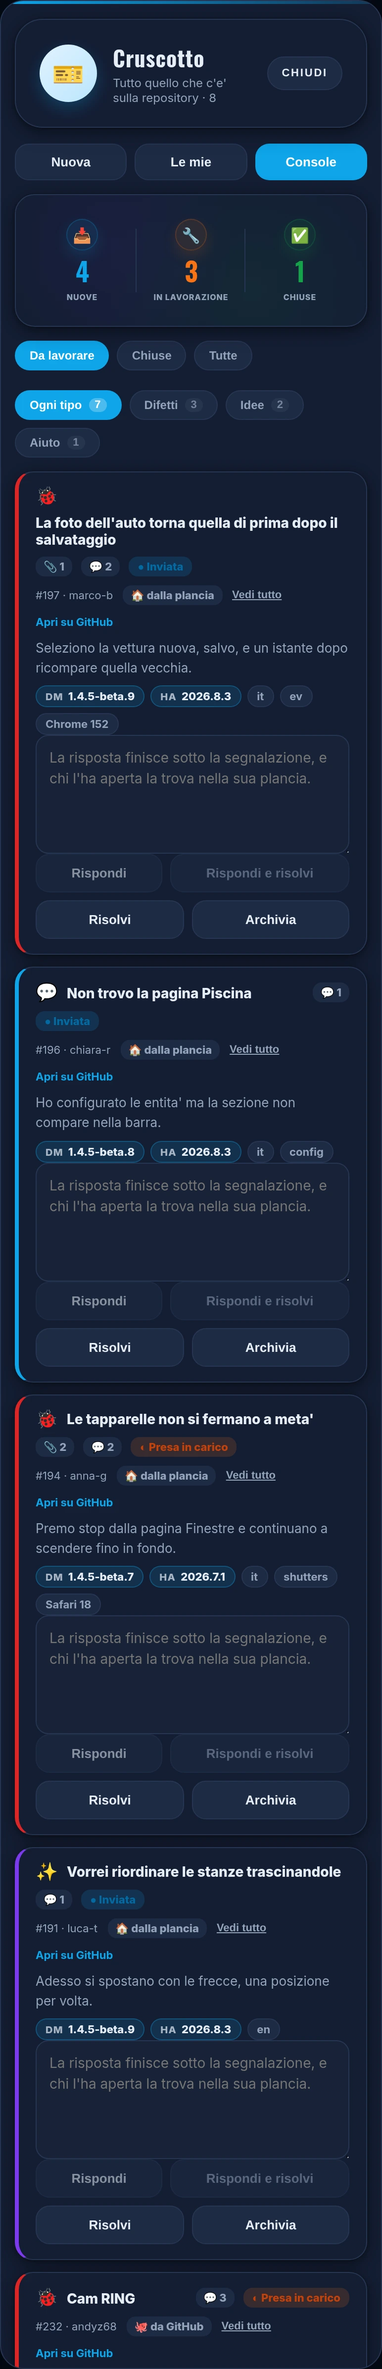
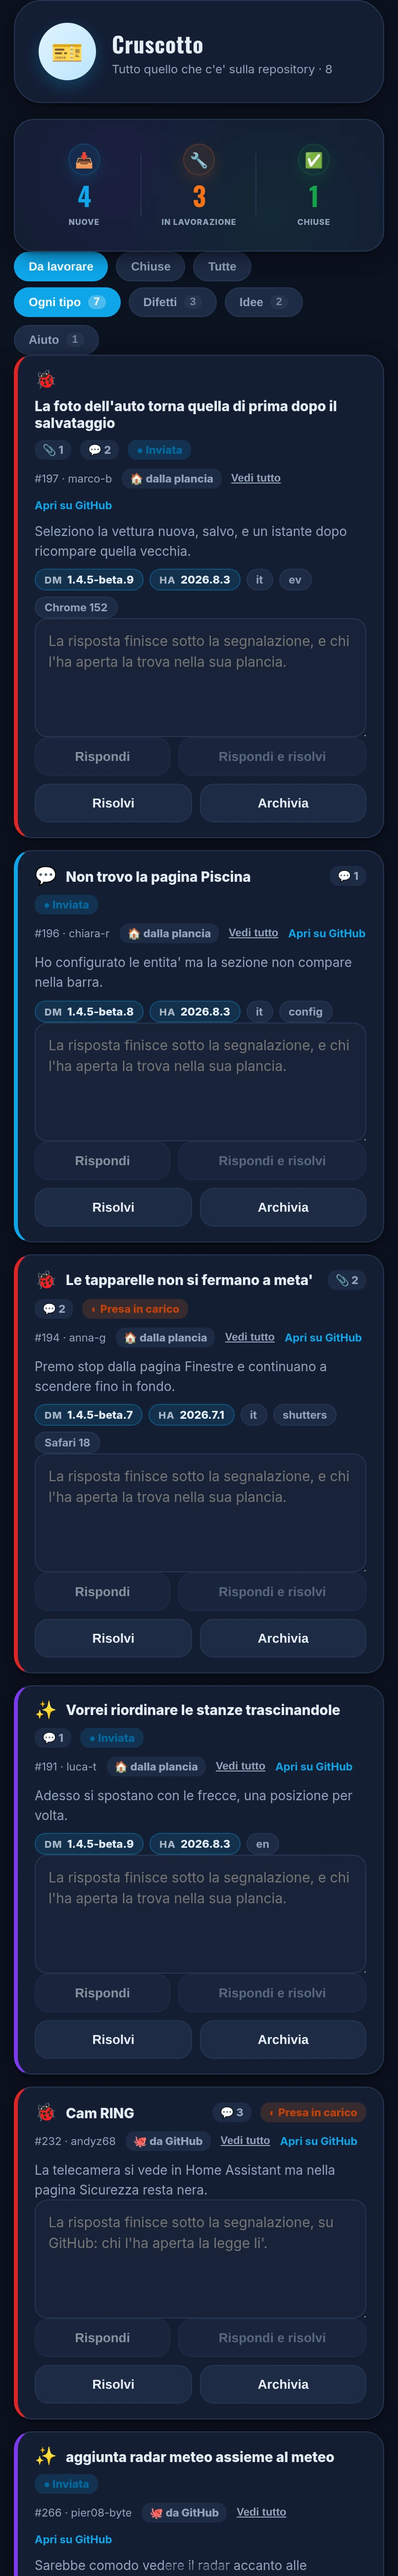
Il cruscotto e' una pagina, non una finestra
Stava dentro il popup delle segnalazioni, come terza linguetta. Ma la coda del
manutentore non e' una cosa che si sbircia: si legge un titolo, si apre il filo,
si guarda una foto allegata, si scrive una risposta — e tutto questo dentro un
riquadro largo un palmo vuol dire scorrere per fare qualunque cosa. La finestra
andava bene per scrivere una segnalazione, che e' un gesto corto; per lavorarne
cinquanta no.

Adesso e' una pagina sua, con la sua voce nella barra in fondo, e ci sta tutto a
schermo intero: il riquadro della risposta e' largo quanto la pagina, e le righe
respirano.

La voce c'e' **solo per chi tiene la repository**, e non e' un'impostazione:
per tutti gli altri quella pagina non avrebbe niente dentro, e offrire un
interruttore per spegnerla vorrebbe dire offrire di spegnere una cosa che non
hanno. Chi ce l'ha invece la puo' togliere dalla barra come qualunque altra
pagina, dall'interruttore nella scheda Segnalazioni — e senza quella riga non
potrebbe, perche' e' una voce che nasce a runtime e le fasce del guscio non la
conoscono. La chiave li' e' scritta per esteso e non come costante: la prova che
pretende un interruttore per ogni voce della barra legge i sorgenti, e una
costante non la saprebbe risolvere. Scriverla vuol dire restare dentro quella
rete invece di scivolarci fuori senza accorgersene.

E se il riconoscimento cade — ci si scollega, il gettone smette di valere — la
voce e la pagina se ne vanno da sole: restare con una voce nella barra che apre
[…]

Changed region(s): [[0.0, 0.0, 1.0, 1.0], [0.8394, 0.4049, 0.8705, 0.436]]

diff --git a/custom_components/dashboardmodern/frontend/src/sections/segnalazioni-section.js b/custom_components/dashboardmodern/frontend/src/sections/segnalazioni-section.js
@@ -653,7 +653,20 @@ function tesseraMarkup() {
         ),
       )}</div>
     </div>
-    <div class="cfg-card-arrow">›</div>`;
+    <div class="cfg-card-arrow">›</div>
+    ${
+      /* L'interruttore della voce «Cruscotto» nella barra, e sta qui perche' qui
+       * sta la sua scheda. Compare solo per chi la voce ce l'ha: agli altri
+       * offrirebbe di spegnere una cosa che non hanno. Chi ce l'ha deve poterla
+       * togliere dalla barra come qualunque altra pagina — e senza questa riga
+       * non potrebbe, perche' e' una voce che nasce a runtime e le fasce del
+       * guscio non la conoscono. */
+      /* La chiave scritta per esteso e non `CRUSCOTTO_TAB`: la prova che
+       * pretende un interruttore per ogni voce della barra legge i sorgenti, e
+       * una costante non la sa risolvere qui. Scriverla vuol dire restare
+       * dentro quella rete invece di scivolarci fuori senza accorgersene. */
+      state.console ? root.cdSecToggleHtml?.("cruscotto") || "" : ""
+    }`;
 }
 
 function installaTessera() {
@@ -709,8 +722,7 @@ export function apri(dove = "") {
   /* La linguetta si sceglie da fuori solo se esiste per chi guarda: la console
    * la vede il manutentore, e chiederla senza averla lascerebbe la finestra su
    * una scheda che non c'e'. */
-  if (dove === "console" && state.console) state.tab = "console";
-  else if (dove === "mie" || dove === "nuova") state.tab = dove;
+  if (dove === "mie" || dove === "nuova") state.tab = dove;
   modale.classList.add("show");
   disegna();
   ricarica();
@@ -878,7 +890,6 @@ function schede() {
     ["nuova", t("Nuova", "New")],
     ["mie", t("Le mie", "Mine")],
   ];
-  if (state.console) voci.push(["console", t("Console", "Console")]);
   return `<div class="dm-tkt-tabs">${voci
     .map(
       ([id, nome]) =>
@@ -1537,16 +1548,129 @@ function consoleMarkup() {
 }
 
 /** La riga sotto il titolo: dove sei, e con che account. */
+/* ─── Il cruscotto: una pagina, non una finestra ──────────────────────────
+ *
+ * Stava dentro il popup delle segnalazioni, come terza linguetta. Ma la coda
+ * del manutentore non e' una cosa che si sbircia: si legge un titolo, si apre
+ * il filo, si guarda una foto, si scrive una risposta — e tutto questo dentro
+ * un riquadro largo un palmo vuol dire scorrere per fare qualunque cosa.
+ *
+ * Adesso e' una pagina sua, con la sua voce nella barra, e ci sta tutto a
+ * schermo intero. La voce c'e' **solo per chi tiene la repository**: non e'
+ * un'impostazione da spegnere, e' che per gli altri quella pagina non ha niente
+ * dentro. Chi ce l'ha la puo' nascondere come tutte le altre.
+ */
+
+const CRUSCOTTO_TAB = "cruscotto";
+const CRUSCOTTO_PAGE_ID = "page-cruscotto";
+
+function ultimaPagina() {
+  const pagine = doc?.querySelectorAll?.(".page");
+  return pagine?.length ? pagine[pagine.length - 1] : null;
+}
+
+function creaPaginaCruscotto() {
+  if (!doc) return null;
+  const gia = doc.getElementById(CRUSCOTTO_PAGE_ID);
+  if (gia) return gia;
+  const sorella = ultimaPagina();
+  if (!sorella?.parentElement) return null;
+  const pagina = doc.createElement("section");
+  pagina.className = "page";
+  pagina.id = CRUSCOTTO_PAGE_ID;
+  pagina.innerHTML = `<div class="dm-tkt-plancia" data-dm-cruscotto></div>`;
+  sorella.after(pagina);
+  return pagina;
+}
+
+function creaVoceCruscotto() {
+  if (!doc) return null;
+  const gia = doc.querySelector(`.tab[data-tab="${CRUSCOTTO_TAB}"]`);
+  if (gia) return gia;
+  const barra = doc.querySelector("nav.tabs");
+  if (!barra) return null;
+  const voce = doc.createElement("button");
+  voce.className = "tab";
+  voce.dataset.tab = CRUSCOTTO_TAB;
+  voce.id = `tab-${CRUSCOTTO_TAB}`;
+  voce.innerHTML = `<span class="icon">🎫</span><span class="text">${esc(
+    t("Cruscotto", "Console"),
+  )}</span>`;
+  /* Il gestore che il runtime lega alle voci lo lega una volta sola, al
+   * caricamento: questa arriva dopo e il suo tocco se lo gestisce da se'. Fa la
+   * stessa identica cosa, perche' due modi di cambiare pagina sarebbero due
+   * pagine attive quando non tornano. */
+  voce.addEventListener("click", () => {
+    for (const nodo of doc.querySelectorAll(".tab")) nodo.classList.remove("active");
+    for (const nodo of doc.querySelectorAll(".page")) nodo.classList.remove("active");
+    voce.classList.add("active");
+    creaPaginaCruscotto()?.classList.add("active");
+    if (root.navigator?.vibrate) root.navigator.vibrate(5);
+    /* Aprendola si va a vedere se e' cambiato qualcosa: e' il gesto con cui si
+     * chiede «cosa c'e' di nuovo», e rispondere con quello di dieci minuti fa
+     * sarebbe rispondere a un'altra domanda. */
+    caricaCoda({ zitta: true });
+    disegnaCruscotto();
+  });
+  barra.append(voce);
+  return voce;
+}
+
+/* La voce si nasconde come tutte le altre: `cdApplyNavVis` sa quali voci
+ * esistono da una mappa sua, e una che non c'e' resta sempre accesa qualunque
+ * cosa dica la configurazione. */
+function insegnaLaVisibilitaDelCruscotto() {
+  const precedente = root.cdNavVisMap;
+  if (typeof precedente !== "function" || precedente.__dmCruscotto) return;
+  const avvolta = function cdNavVisMap(...args) {
+    const mappa = precedente.apply(this, args) || {};
+    return { ...mappa, [CRUSCOTTO_TAB]: CRUSCOTTO_TAB };
+  };
+  avvolta.__dmCruscotto = true;
+  avvolta.__dmPrevious = precedente;
+  root.cdNavVisMap = avvolta;
+}
+
+/* La pagina esiste solo per chi tiene la repository, e sparisce se quel
+ * riconoscimento cade — chi si scollega non deve restare con una voce nella
+ * barra che apre una pagina vuota. */
+export function sistemaIlCruscotto() {
+  if (!doc) return;
+  if (!state.console) {
+    doc.querySelector(`.tab[data-tab="${CRUSCOTTO_TAB}"]`)?.remove();
+    doc.getElementById(CRUSCOTTO_PAGE_ID)?.remove();
+    return;
+  }
+  creaPaginaCruscotto();
+  creaVoceCruscotto();
+  insegnaLaVisibilitaDelCruscotto();
+  disegnaCruscotto();
+}
+
+function disegnaCruscotto() {
+  const dentro = doc?.querySelector?.("[data-dm-cruscotto]");
+  if (!dentro) return;
+  const quante = Array.isArray(state.queue) ? state.queue.length : 0;
+  dentro.innerHTML = `
+    <div class="cfg-hero dm-tkt-hero">
+      <div class="cfg-hero-ico" aria-hidden="true">🎫</div>
+      <div class="cfg-hero-txt">
+        <div class="cfg-hero-title">${esc(t("Cruscotto", "Console"))}</div>
+        <div class="cfg-hero-sub">${esc(
+          `${t("Tutto quello che c'e' sulla repository", "Everything on the repository")} · ${quante}`,
+        )}</div>
+      </div>
+    </div>
+    ${avvisoMarkup()}
+    ${consoleMarkup()}`;
+  agganciaEventi(dentro);
+}
+
 function sottotitolo() {
   /* Il pezzo che cambia si attacca FUORI da `t()`. Dentro finirebbe nella
    * chiave — una chiave diversa per ogni conteggio e per ogni login — e a
    * runtime nessun catalogo l'avrebbe mai contenuta: ogni lingua ricadrebbe
    * sull'inglese proprio in questa riga. */
-  if (state.tab === "console") {
-    const quante = Array.isArray(state.queue) ? state.queue.length : 0;
-    const testa = t("Tutto quello che c'e' sulla repository", "Everything on the repository");
-    return `${testa} · ${quante}`;
-  }
   if (state.account.connected) {
     return `${t("Le tue richieste", "Your requests")} · ${state.account.login}`;
   }
@@ -1559,18 +1683,18 @@ function sottotitolo() {
 function disegna() {
   const modale = doc?.getElementById?.("dm-tkt-modal");
   if (!modale) return;
-  modale.querySelector('[data-dm-tkt="titolo"]').textContent =
-    state.tab === "console" ? t("Cruscotto", "Console") : t("Segnalazioni", "Reports");
+  modale.querySelector('[data-dm-tkt="titolo"]').textContent = t("Segnalazioni", "Reports");
   modale.querySelector('[data-dm-tkt="sottotitolo"]').textContent = sottotitolo();
   modale.querySelector('[data-dm-tkt="chiudi"]').textContent = t("Chiudi", "Close");
   const corpo = modale.querySelector('[data-dm-tkt="corpo"]');
-  let pannello = "";
-  if (state.tab === "mie") pannello = elencoMarkup();
-  else if (state.tab === "console") pannello = consoleMarkup();
-  else pannello = moduloMarkup();
+  const pannello = state.tab === "mie" ? elencoMarkup() : moduloMarkup();
   corpo.innerHTML = schede() + avvisoMarkup() + codiceMarkup() + pannello;
   agganciaEventi(corpo);
   if (state.tab === "nuova") mostraDiagnostica(corpo);
+  /* La pagina del cruscotto vive fuori da questa finestra, ma legge lo stesso
+   * stato: quando qui cambia qualcosa — una risposta pubblicata, la coda
+   * riletta — anche lei va rifatta, o le due mostrerebbero cose diverse. */
+  disegnaCruscotto();
 }
 
 async function mostraDiagnostica(corpo) {
@@ -1615,7 +1739,6 @@ function agganciaEventi(corpo) {
       state.tab = bottone.dataset.dmTab;
       state.avviso = "";
       disegna();
-      if (state.tab === "console" && state.queue === null) caricaCoda();
     });
   });
   corpo.querySelectorAll("[data-dm-tipo]").forEach((bottone) => {
@@ -1885,11 +2008,14 @@ export function installSegnalazioniSection() {
    * viene riempita dal runtime: si riprova quando la si apre. */
   /* Il tasto sta dentro la finestra di una tessera della Home, che e' roba di
    * un altro modulo. Ad ascoltarlo pero' e' questa sezione, perche' e' lei che
-   * sa aprire la propria finestra: il widget disegna la porta, non la apre. */
+   * possiede il cruscotto: il widget disegna la porta, non la apre. */
   doc.addEventListener("click", (event) => {
-    if (event.target?.closest?.("[data-dm-apri-cruscotto]")) {
-      apri("console");
-    }
+    if (!event.target?.closest?.("[data-dm-apri-cruscotto]")) return;
+    /* Il cruscotto adesso e' una pagina: si va li', invece di aprire una
+     * finestra sopra la Home. Il tocco sulla voce fa gia' tutto — cambia
+     * pagina, rilegge la coda, ridisegna — e rifarlo qui vorrebbe dire due
+     * strade da tenere uguali. */
+    doc.querySelector(`.tab[data-tab="${CRUSCOTTO_TAB}"]`)?.click();
   });
   doc.addEventListener(
     "click",
@@ -1901,7 +2027,12 @@ export function installSegnalazioniSection() {
     true,
   );
   prova();
-  root.DashboardModernSegnalazioni = Object.freeze({ apri, chiudi });
+  root.DashboardModernSegnalazioni = Object.freeze({
+    apri,
+    chiudi,
+    // Serve al generatore delle anteprime: semina lo stato, poi chiede la pagina.
+    sistema: sistemaIlCruscotto,
+  });
   return state;
 }
 

diff --git a/custom_components/dashboardmodern/frontend/legacy/build-info.js b/custom_components/dashboardmodern/frontend/legacy/build-info.js
@@ -13,4 +13,4 @@ import "../src/sections/beta25-real-device-fixes-section.js";
 import "../src/sections/beta25-compatibility-section.js";
 import "../src/sections/beta26-real-device-stability-section.js";
 import "../src/sections/segnalazioni-section.js";
-export const BUILD_INFO = Object.freeze({"generated":true,"integrationVersion":"1.4.5-beta.10","dashboardVersion":"1.4.5-beta.10","moduleVersion":14,"schemaVersion":4,"date":"2026-09-02T12:36:38+00:00","commit":"ca56d6b41f2c96954e43fd0d08556f5f002b93ef","assetHash":"f64329658b034a15"});
+export const BUILD_INFO = Object.freeze({"generated":true,"integrationVersion":"1.4.5-beta.10","dashboardVersion":"1.4.5-beta.10","moduleVersion":14,"schemaVersion":4,"date":"2026-09-02T12:41:28+00:00","commit":"3f69809cfa3c2f50785e610ffebd45b72af87d32","assetHash":"04ef48df43abbc41"});

diff --git a/custom_components/dashboardmodern/frontend/src/i18n/source-index.js b/custom_components/dashboardmodern/frontend/src/i18n/source-index.js
@@ -754,6 +754,7 @@ export const SOURCE_INDEX = Object.freeze({
   "Createte token": "Create token",
   "crei un avviso su qualsiasi entità, con nome, condizione e icona a scelta.": "you can create an alert on any entity, with your own name, condition and icon.",
   "Cronologia Cambiamenti": "Change history",
+  "Cruscotto": "Console",
   "Ctrl Solare": "Solar control",
   "Cucina": "Kitchen",
   "Cumulativo. Giorno e Mese si calcolano da qui come differenza Recorder, quindi non serve un sensore per periodo.": "Cumulative. Day and Month are calculated from it as a Recorder difference, so no per-period sensor is needed.",

diff --git a/CHANGELOG.md b/CHANGELOG.md
@@ -106,6 +106,22 @@ del loro disegno, e un'apertura che spariva senza dire perche'.
 
 ### Il cruscotto
 
+- **Non e' piu' una finestra: e' una pagina, con la sua voce nella barra.** La
+  coda del manutentore non e' una cosa che si sbircia — si legge un titolo, si
+  apre il filo, si guarda una foto, si scrive una risposta — e tutto questo
+  dentro un riquadro largo un palmo vuol dire scorrere per fare qualunque cosa.
+  Adesso ci sta tutto a schermo intero.
+
+  La voce c'e' **solo per chi tiene la repository**, e non e' un'impostazione da
+  spegnere: per gli altri quella pagina non avrebbe niente dentro. Chi ce l'ha
+  la puo' nascondere dalla barra come qualunque altra, dall'interruttore nella
+  scheda Segnalazioni — e se il riconoscimento cade, la voce e la pagina se ne
+  vanno da sole invece di restare li' vuote.
+
+  La finestra delle segnalazioni torna a due linguette, «Nuova» e «Le mie»: e'
+  il posto di chi segnala, e non ha piu' dentro il posto di chi risponde.
+
+
 - **I tasti che scrivono nascono spenti, e si accendono col testo.** Erano
   sempre premibili, e alla pressione a vuoto rispondevano «Scrivi una
   risposta»: un rimprovero al posto di un invito, per un errore che il tasto
